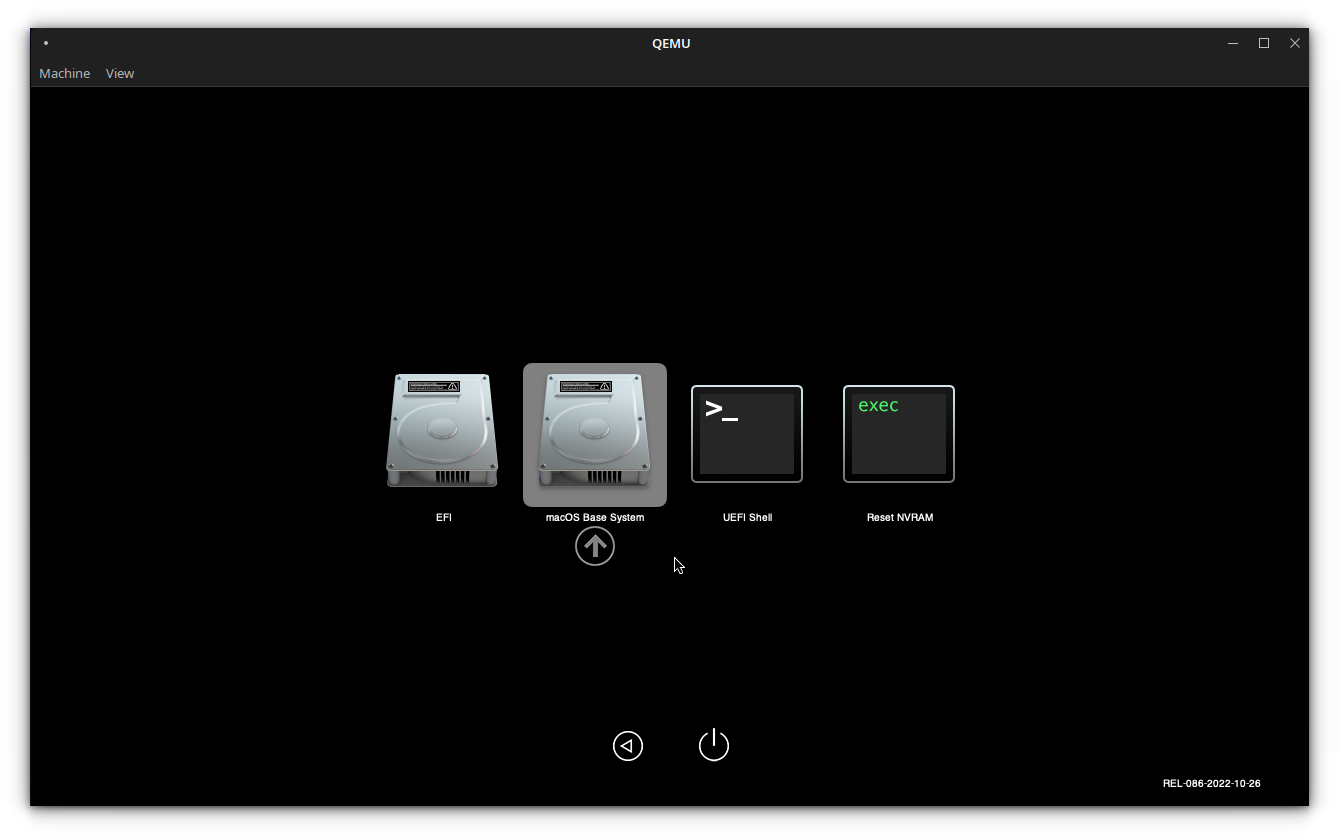
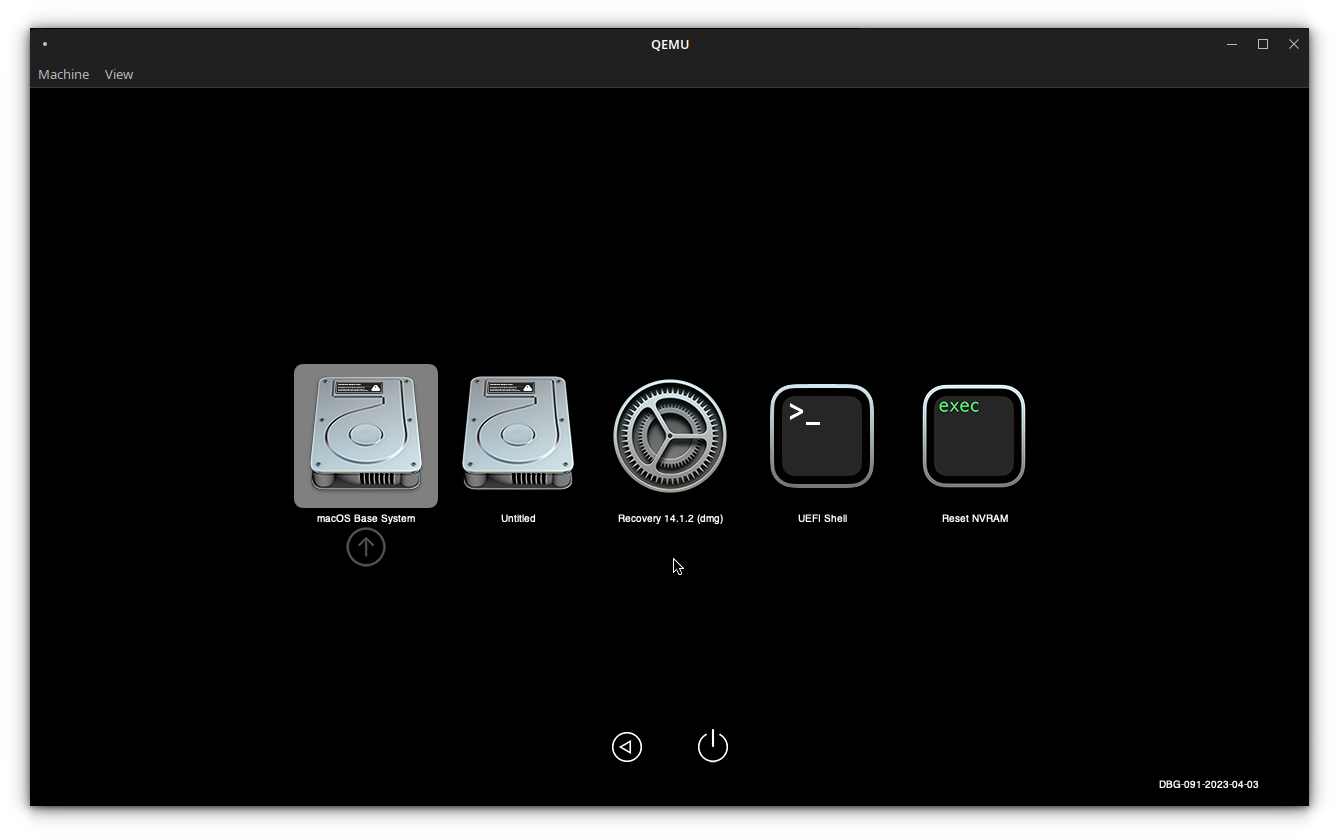
Update screenshots and gallery to macOS Sonoma

diff --git a/scripts/repo-update.py b/scripts/repo-update.py
@@ -26,8 +26,8 @@ import http.client as httplib
 global noDelta
 
 detectChoice = 1
-latestOSName = "Ventura"
-latestOSVer = "13"
+latestOSName = "Sonoma"
+latestOSVer = "14"
 runs = 0
 noDelta = 0
 
@@ -35,7 +35,7 @@ global version
 
 # INTERNAL VERSION OF THIS UTILITY
 # May be used in the future
-updaterVersion = "2.3"
+updaterVersion = "2.4"
 
 if os.path.exists("./.version"):
    version = open("./.version")
@@ -68,6 +68,7 @@ parser.add_argument("-a", "--auto", dest="install", help="Automatically download
 parser.add_argument("-d", "--download", dest="download", help="Automatically download (but not install) available updates without asking",action="store_true")
 parser.add_argument("-v", "--version", dest="version", help="Upgrade/downgrade to a specific version. Must be used with --force.", metavar="<X.X.X>", type=str)
 parser.add_argument("-f", "--force", dest="force", help="Force install the latest version, even if it is already installed. Use only to skip ahead to latest commit", action="store_true")
+parser.add_argument("--switchBranch", dest="switchBranch", help="Switch to the development branch", action="store_true")
 parser.add_argument("--forceDelta", dest="forceDelta", help="Skip the delta update compatibility check and allow upgrading forcefully. THIS IS UNSAFE!", action="store_true")
 parser.add_argument("--noDelta", dest="noDelta", help="For debugging only. Flags all updates as incompatible even if they aren't", action="store_true")
 parser.add_argument("--menuFlow", dest="menuFlow", help="To be used by other internal scripts only", action="store_true")
@@ -83,6 +84,7 @@ def have_internet() -> bool:
     global integrity
     conn = httplib.HTTPSConnection("8.8.8.8", timeout=5)
     try:
+        
         conn.request("HEAD", "/")
         return True
     except Exception:

diff --git a/README.md b/README.md
@@ -203,7 +203,8 @@ Of course, if you're just testing the project, then a "clean install" is probabl
 
 Here's a few screenshots showing **ultimate-macOS-KVM** in action!
 
-<img src="https://github.com/Coopydood/ultimate-macOS-KVM/assets/39441479/02c6abd3-40b3-416b-ba1f-5979314ad2f9" width="45%"></img> <img src="https://github.com/Coopydood/ultimate-macOS-KVM/assets/39441479/8712cc11-e352-40ba-9373-d0da13c4bd89" width="45%"></img> <img src="https://github.com/Coopydood/ultimate-macOS-KVM/assets/39441479/5fa35111-1559-42d5-b8d2-87aa35d64489" width="45%"></img> <img src="https://github.com/Coopydood/ultimate-macOS-KVM/assets/39441479/1c10c6e0-263d-409c-996e-2d0fc5cf1287" width="45%"></img> <img src="https://github.com/Coopydood/ultimate-macOS-KVM/assets/39441479/232f3bae-b31b-4e18-bee9-8c03a472d5a0" width="45%"></img> <img src="https://github.com/Coopydood/ultimate-macOS-KVM/assets/39441479/ac766b58-5e66-4b70-9742-8e318f065fc2" width="45%"></img> <img src="https://github.com/Coopydood/ultimate-macOS-KVM/assets/39441479/1fd0add5-c0c8-46a1-8897-3b80c37f98a1" width="45%"></img> <img src="https://github.com/Coopydood/ultimate-macOS-KVM/assets/39441479/8380632b-dceb-41e7-acb0-b2bd15cbf575" width="45%"></img> <img src="https://github.com/Coopydood/ultimate-macOS-KVM/assets/39441479/b32c2701-a934-42ce-ab69-06b1ae350f1b" width="45%"></img> <img src="https://github.com/Coopydood/ultimate-macOS-KVM/assets/39441479/ee451491-35fa-436e-957b-888d2f7d488e" width="45%"></img> <img src="https://github.com/Coopydood/ultimate-macOS-KVM/assets/39441479/c4e394c3-a666-4aab-9aa7-b40b1e84d977" width="45%"></img> <img src="https://github.com/Coopydood/ultimate-macOS-KVM/assets/39441479/feb19dce-7a9a-4527-884c-8b2f2d445e2f" width="45%"></img> <img src="https://github.com/Coopydood/ultimate-macOS-KVM/assets/39441479/4a8b5249-3029-49d3-8539-229b3c179816" width="45%"></img> <img src="https://github.com/Coopydood/ultimate-macOS-KVM/assets/39441479/4e7678f3-5ee4-4e69-93a7-d9ba9881cea7" width="45%"></img> 
+<img src="https://github.com/Coopydood/ultimate-macOS-KVM/assets/39441479/d93d92e1-5923-436f-a00d-d311c75c1680" width="90%"></img> <img src="https://github.com/Coopydood/ultimate-macOS-KVM/assets/39441479/a9dfb145-d557-46f3-89f4-f891ffff27e0" width="45%"></img> <img src="https://github.com/Coopydood/ultimate-macOS-KVM/assets/39441479/593e8388-8b2d-4b12-99b4-1dbd7802dea8" width="45%"></img> <img src="https://github.com/Coopydood/ultimate-macOS-KVM/assets/39441479/232f3bae-b31b-4e18-bee9-8c03a472d5a0" width="45%"></img> <img src="https://github.com/Coopydood/ultimate-macOS-KVM/assets/39441479/ac766b58-5e66-4b70-9742-8e318f065fc2" width="45%"></img> <img src="https://github.com/Coopydood/ultimate-macOS-KVM/assets/39441479/1fd0add5-c0c8-46a1-8897-3b80c37f98a1" width="45%"></img> <img src="https://github.com/Coopydood/ultimate-macOS-KVM/assets/39441479/8380632b-dceb-41e7-acb0-b2bd15cbf575" width="45%"></img> <img src="https://github.com/Coopydood/ultimate-macOS-KVM/assets/39441479/b32c2701-a934-42ce-ab69-06b1ae350f1b" width="45%"></img> <img src="https://github.com/Coopydood/ultimate-macOS-KVM/assets/39441479/ee451491-35fa-436e-957b-888d2f7d488e" width="45%"></img> <img src="https://github.com/Coopydood/ultimate-macOS-KVM/assets/39441479/c4e394c3-a666-4aab-9aa7-b40b1e84d977" width="45%"></img> <img src="https://github.com/Coopydood/ultimate-macOS-KVM/assets/39441479/feb19dce-7a9a-4527-884c-8b2f2d445e2f" width="45%"></img> <img src="https://github.com/Coopydood/ultimate-macOS-KVM/assets/39441479/4a8b5249-3029-49d3-8539-229b3c179816" width="45%"></img> <img src="https://github.com/Coopydood/ultimate-macOS-KVM/assets/39441479/4e7678f3-5ee4-4e69-93a7-d9ba9881cea7" width="45%"></img>
+<img src="https://github.com/Coopydood/ultimate-macOS-KVM/assets/39441479/dd012a63-415a-4b87-b096-feabdd3f8a5e" width="45%"></img> <img src="https://github.com/Coopydood/ultimate-macOS-KVM/assets/39441479/32d2992d-a39a-4b34-976b-5e7ee5d5c926" width="45%"></img> 
 
 ***
 
